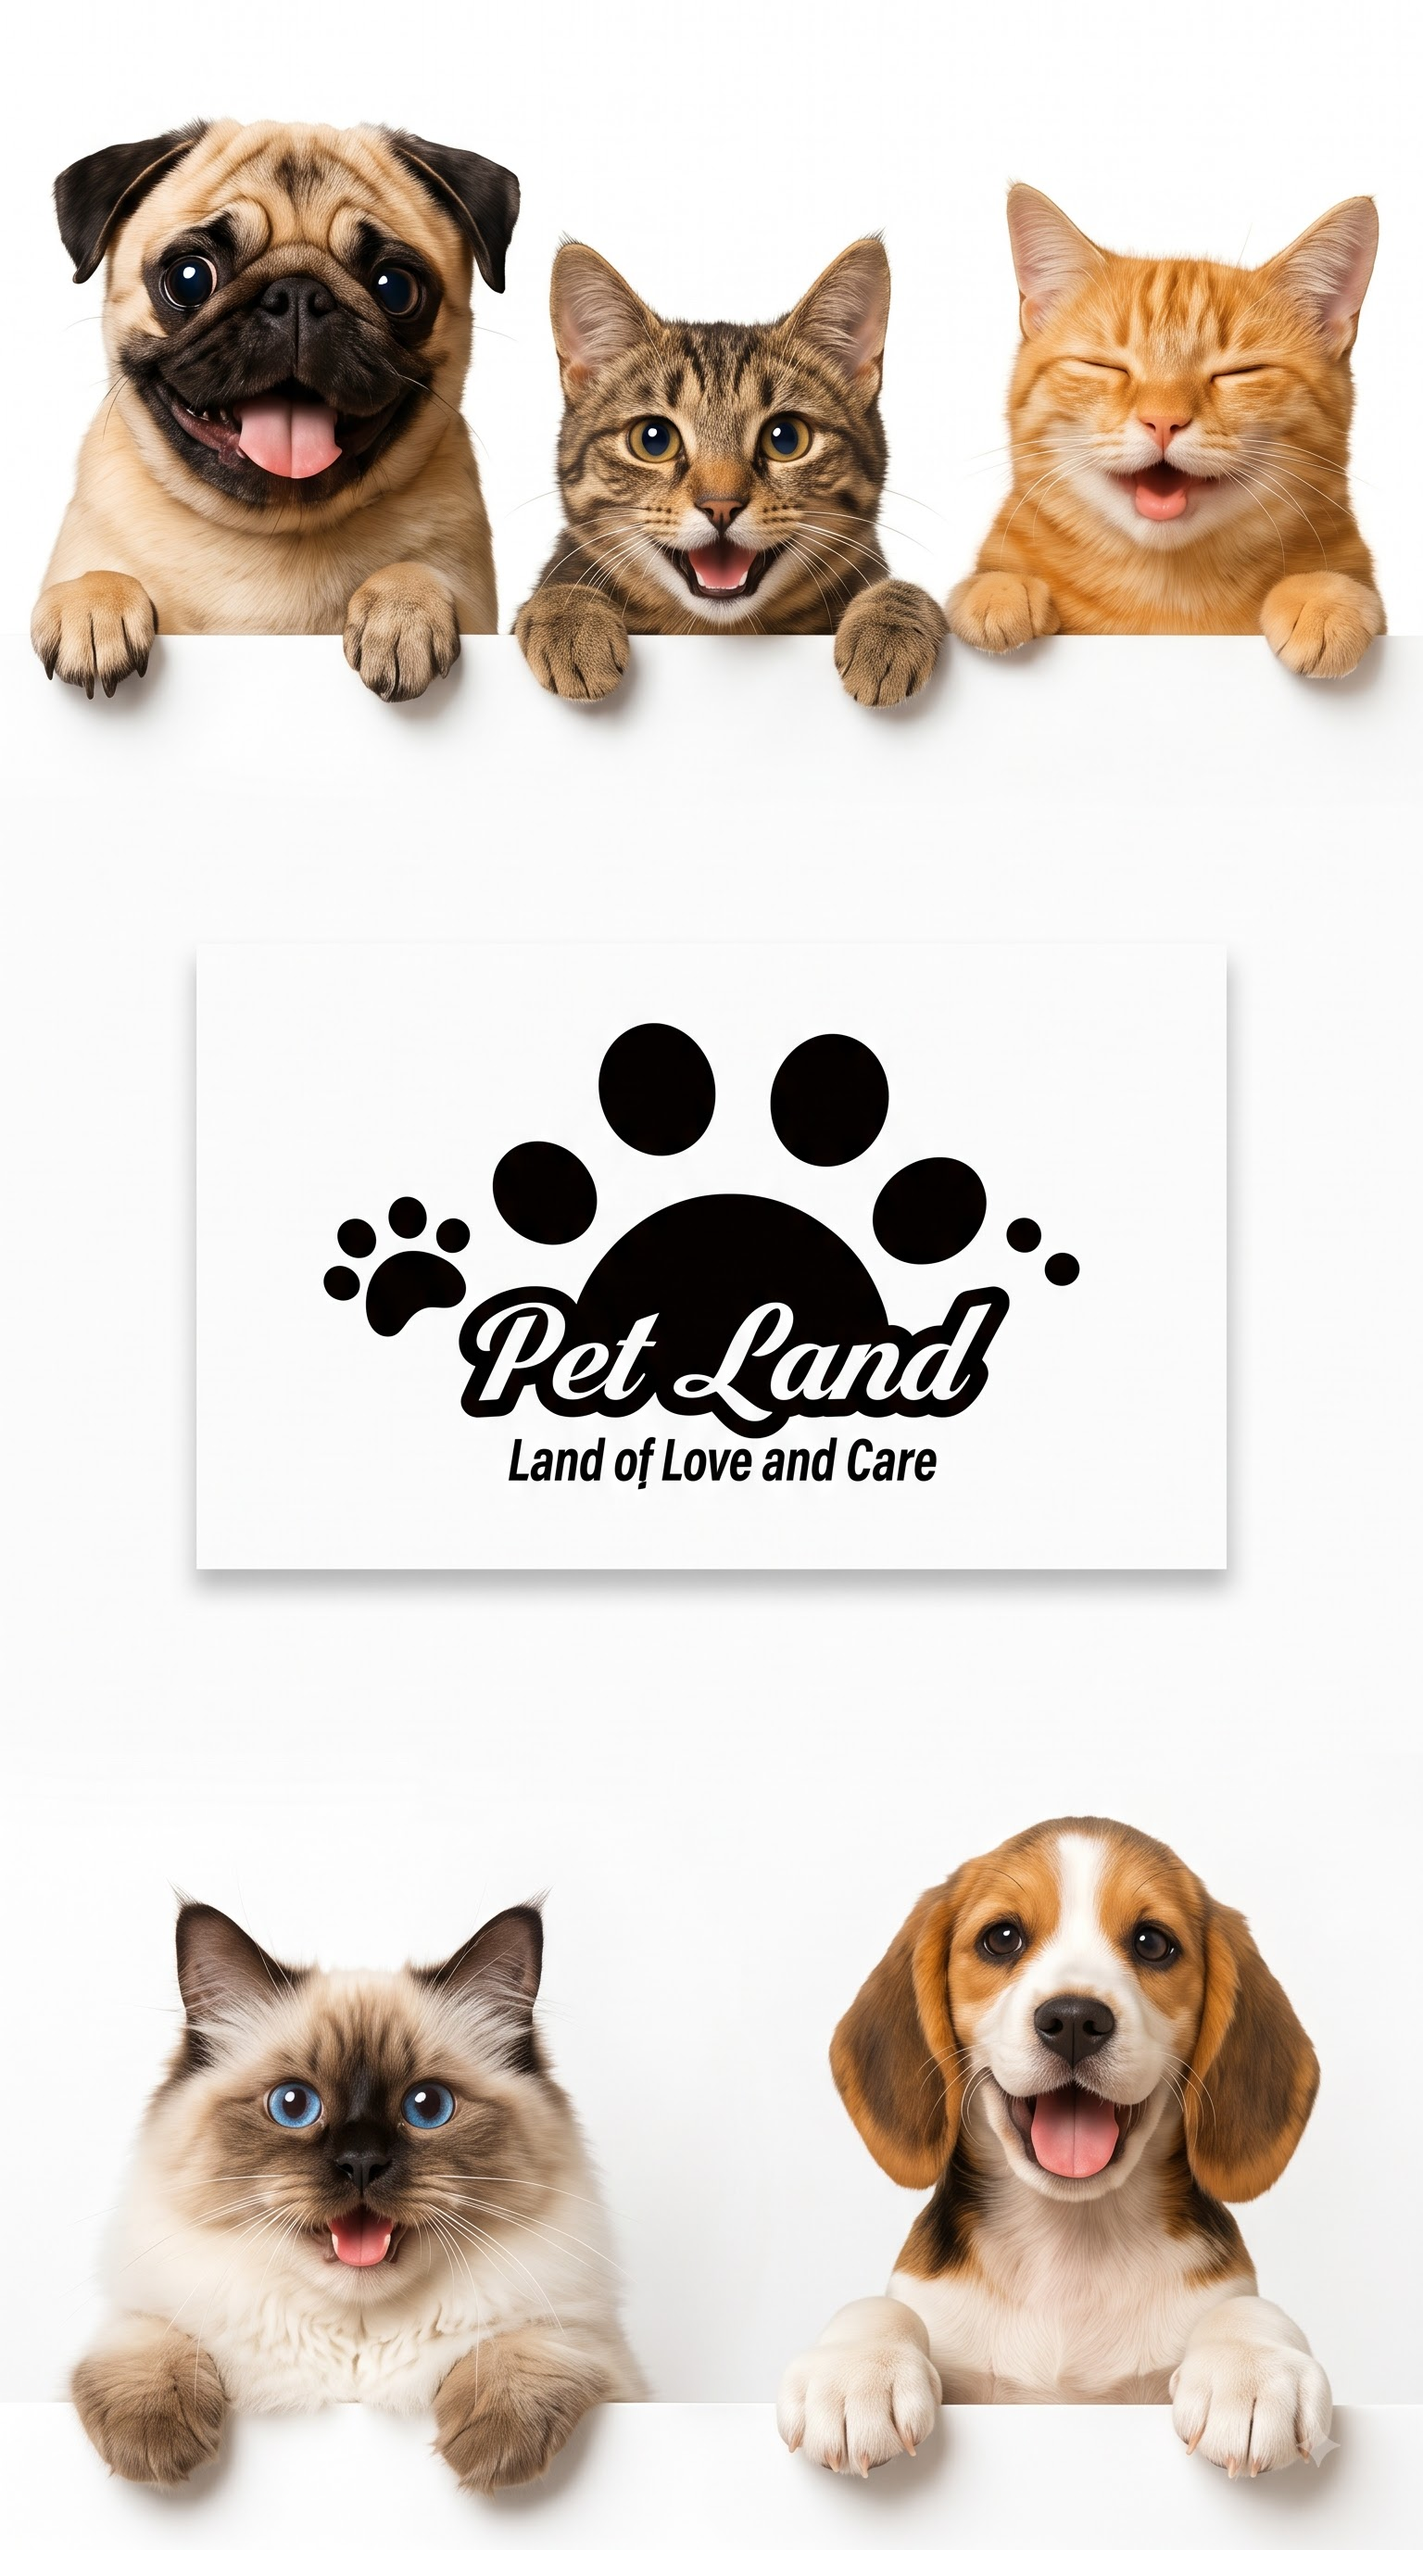
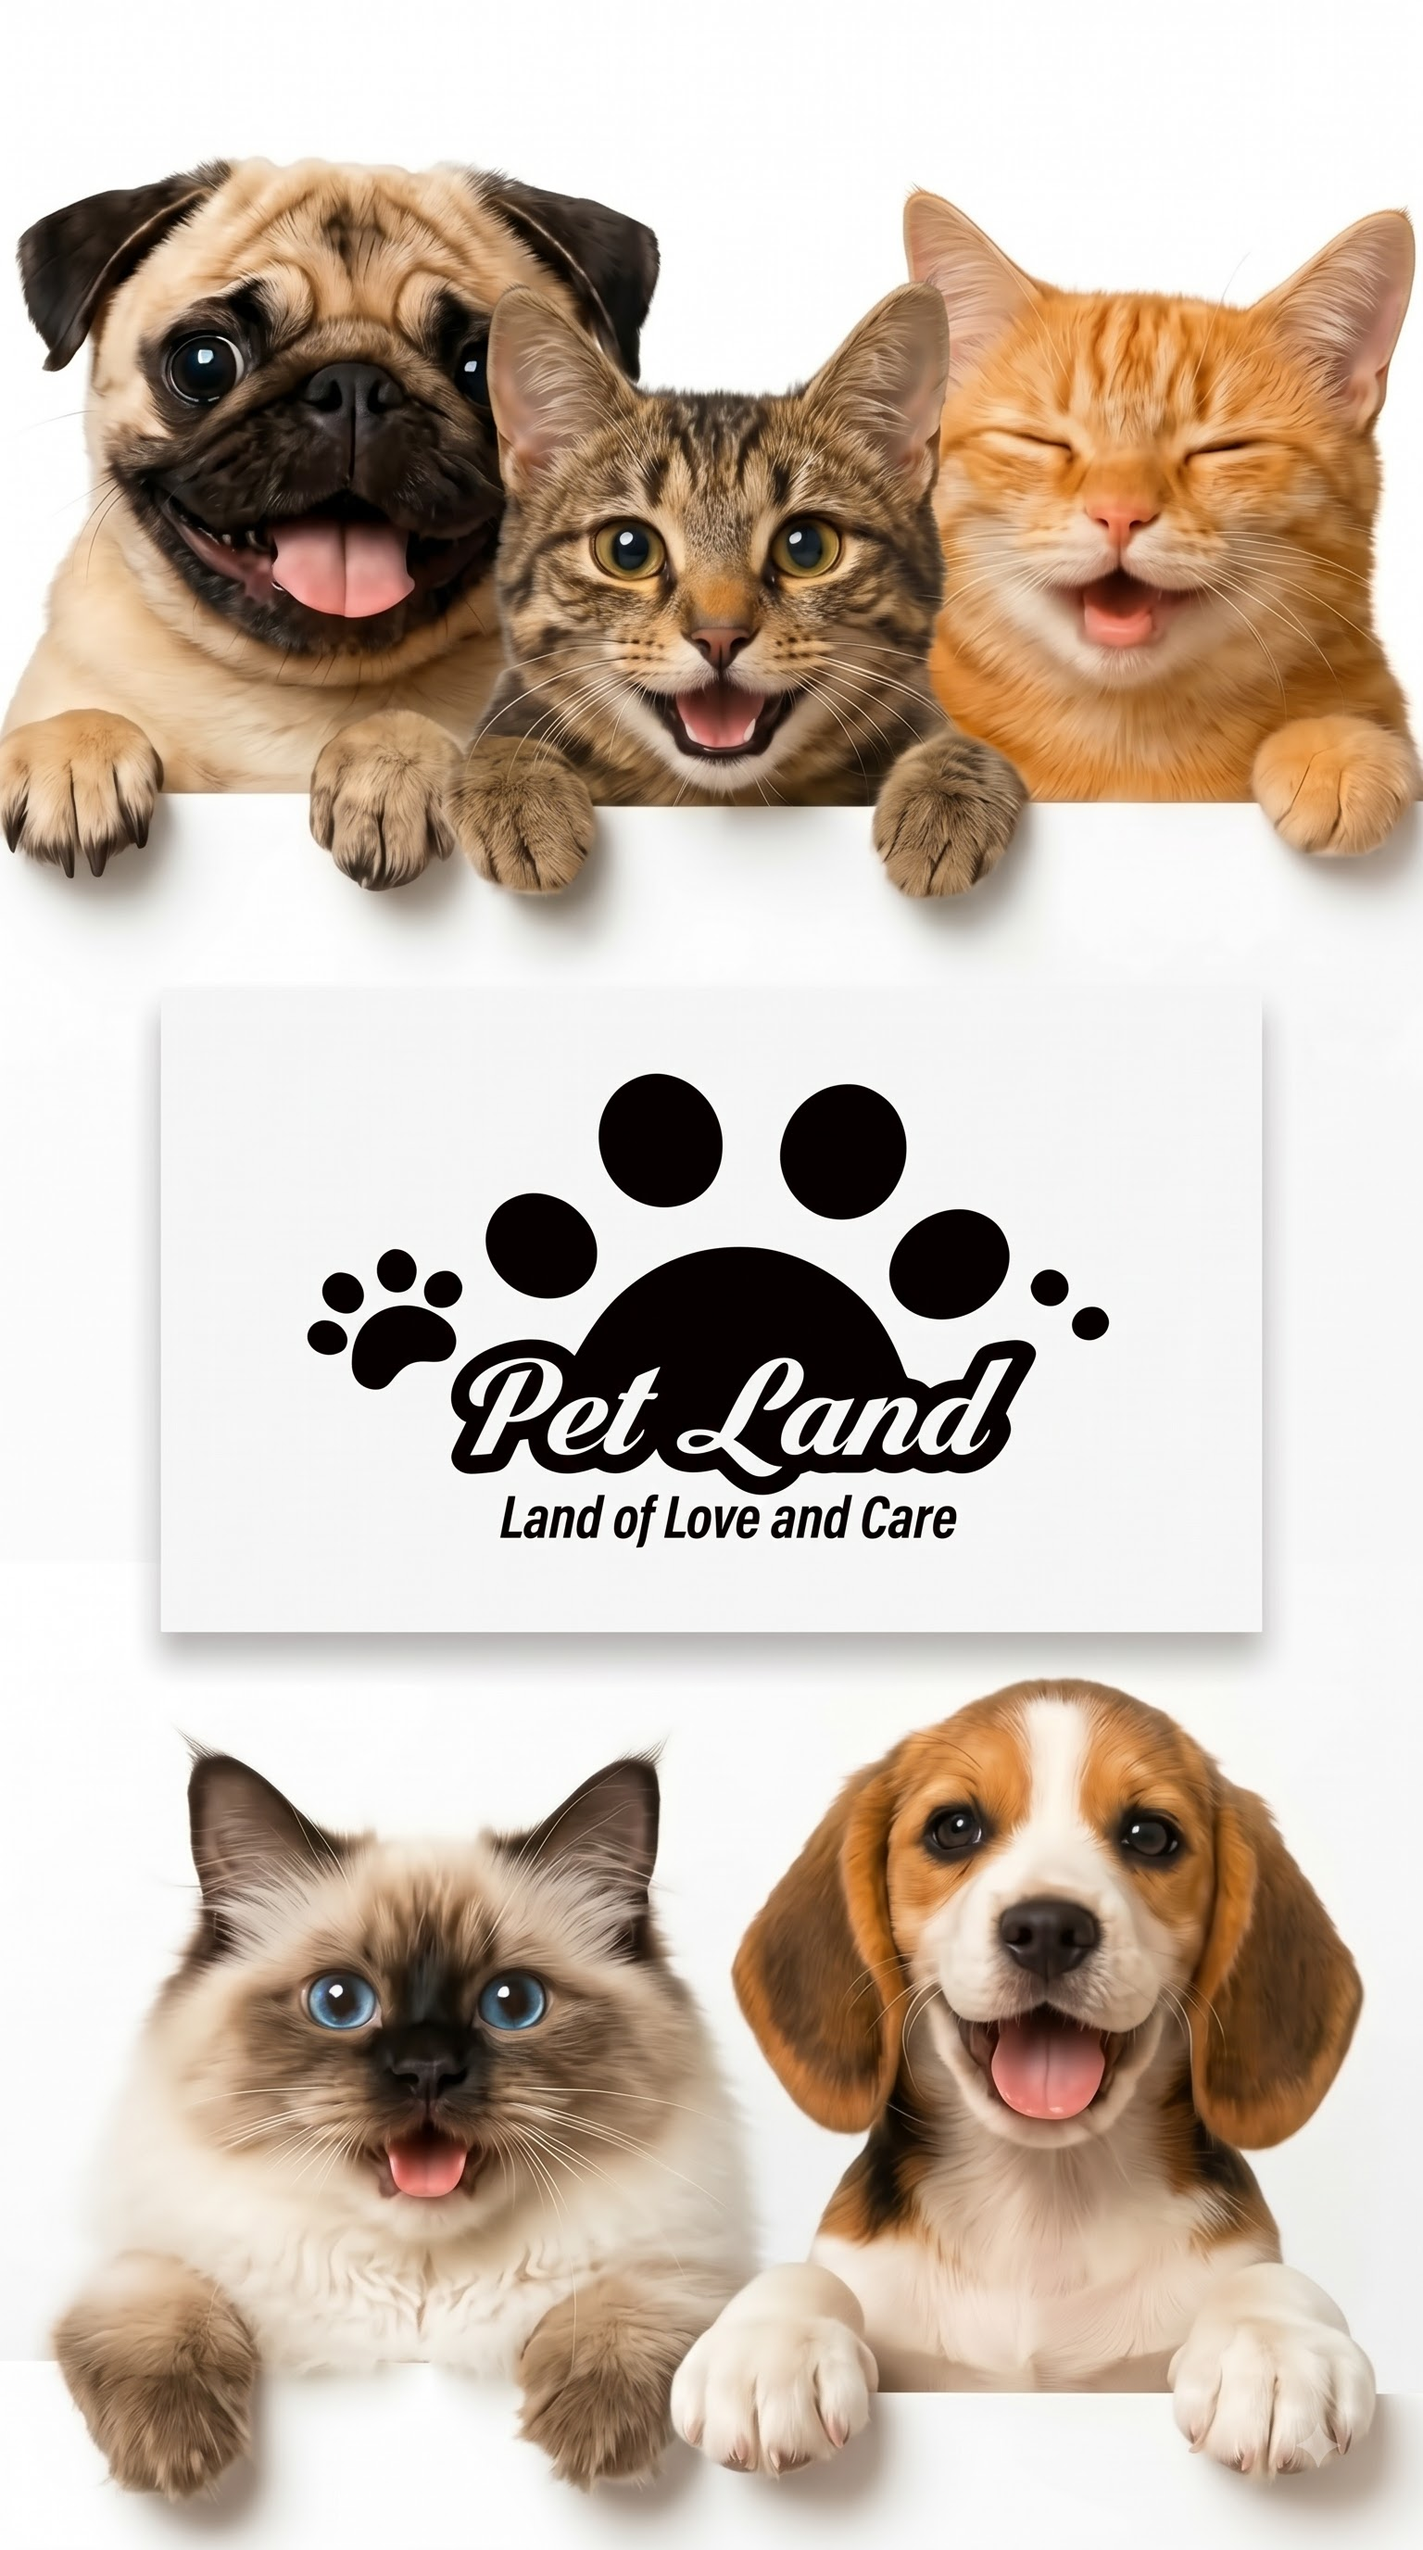
home page image

diff --git a/style.css b/style.css
@@ -1755,9 +1755,9 @@ footer {
     position: relative;
     width: 100%;
     height: calc(100vh - 82px);
-    padding-top: 85px;
     background-color: var(--white);
     margin: 0;
+    padding: 0;
     overflow: hidden;
 }
 
@@ -1788,7 +1788,6 @@ footer {
     width: 100%;
     height: 100%;
     object-fit: cover;
-    object-position: center top;
     display: block;
     background-color: var(--white);
 }
@@ -1796,7 +1795,6 @@ footer {
 @media (max-width: 768px) {
     .hero-section {
         height: 65vh;
-        padding-top: 65px;
     }
 }
 

diff --git a/scratch/interact_products_filter.py b/scratch/interact_products_filter.py
@@ -1,0 +1,31 @@
+from playwright.sync_api import sync_playwright
+
+with sync_playwright() as p:
+    browser = p.chromium.launch(headless=True)
+    page = browser.new_page()
+    page.goto('https://shop.petlandoman.com/products', timeout=60000)
+    page.wait_for_timeout(3000)
+    
+    # Take screenshot of /products to inspect filter UI
+    page.screenshot(path='c:/Users/SRUTHI/.gemini/antigravity-ide/brain/f4dee9e1-f3c6-422f-be04-76cad195ee13/shop_products_page.png')
+    
+    # Get HTML content of the filter section / sidebar
+    filters = page.evaluate('''() => {
+        const elements = document.querySelectorAll('button, div, a, span, label');
+        const items = [];
+        elements.forEach(e => {
+            const text = (e.textContent || '').strip ? e.textContent.strip() : (e.textContent || '').trim();
+            if (text && text.length > 2 && text.length < 50) {
+                if (['Food', 'Pet Food', 'Toys', 'Toys & Fun', 'Hygiene', 'Supplements', 'Accessories', 'Category', 'Categories', 'Dog', 'Cat'].some(k => text.toLowerCase().includes(k.toLowerCase()))) {
+                    items.push({text: text, tag: e.tagName, className: e.className, href: e.getAttribute('href')});
+                }
+            }
+        });
+        return items;
+    }''')
+    
+    print("MATCHED CATEGORY/FILTER ITEMS ON PRODUCTS PAGE:")
+    for item in filters[:30]:
+        print(item)
+        
+    browser.close()

diff --git a/scratch/inspect_nextjs_chunks.py b/scratch/inspect_nextjs_chunks.py
@@ -1,0 +1,32 @@
+import urllib.request
+import re
+
+# Fetch main-app or layout chunks from shop.petlandoman.com
+page_url = "https://shop.petlandoman.com/products"
+req = urllib.request.Request(page_url, headers={'User-Agent': 'Mozilla/5.0'})
+with urllib.request.urlopen(req) as resp:
+    html = resp.read().decode('utf-8', errors='ignore')
+
+js_files = re.findall(r'src="(/_next/static/chunks/[^"]+\.js)"', html)
+print(f"Found {len(js_files)} JS files")
+
+categories_found = set()
+for js in js_files:
+    js_url = "https://shop.petlandoman.com" + js
+    try:
+        jreq = urllib.request.Request(js_url, headers={'User-Agent': 'Mozilla/5.0'})
+        with urllib.request.urlopen(jreq) as jresp:
+            jstext = jresp.read().decode('utf-8', errors='ignore')
+            # Look for category names or slugs
+            cats = re.findall(r'category[^a-zA-Z0-9]*([a-zA-Z0-9_-]+)', jstext, re.IGNORECASE)
+            for c in cats:
+                if len(c) > 2 and len(c) < 30:
+                    categories_found.add(c)
+            # Look for slug or category patterns
+            matches = re.findall(r'["\'](/products\?[^"\']+)["\']', jstext)
+            for m in matches:
+                print("Found product route link:", m)
+    except Exception as e:
+        pass
+
+print("Sample categories keywords found:", list(categories_found)[:20])

diff --git a/scratch/get_shop_categories_playwright.py b/scratch/get_shop_categories_playwright.py
@@ -1,0 +1,39 @@
+from playwright.sync_api import sync_playwright
+import json
+
+with sync_playwright() as p:
+    browser = p.chromium.launch(headless=True)
+    page = browser.new_page()
+    page.goto('https://shop.petlandoman.com/', timeout=60000)
+    page.wait_for_timeout(3000)
+    
+    # Extract links from home page
+    links = page.evaluate('''() => {
+        return Array.from(document.querySelectorAll('a[href]')).map(e => ({
+            text: (e.textContent || '').trim(),
+            href: e.getAttribute('href')
+        }));
+    }''')
+    
+    print("HOME PAGE LINKS:")
+    for l in links:
+        if l['href'] and not l['href'].startswith('#') and l['href'] != '/':
+            print(f"  '{l['text']}' -> {l['href']}")
+            
+    # Now go to /products
+    page.goto('https://shop.petlandoman.com/products', timeout=60000)
+    page.wait_for_timeout(3000)
+    
+    p_links = page.evaluate('''() => {
+        return Array.from(document.querySelectorAll('a[href]')).map(e => ({
+            text: (e.textContent || '').trim(),
+            href: e.getAttribute('href')
+        }));
+    }''')
+    
+    print("\nPRODUCTS PAGE LINKS:")
+    for l in p_links:
+        if l['href'] and not l['href'].startswith('#') and l['href'] != '/':
+            print(f"  '{l['text']}' -> {l['href']}")
+            
+    browser.close()

diff --git a/scratch/get_categories_api.py b/scratch/get_categories_api.py
@@ -1,0 +1,31 @@
+from playwright.sync_api import sync_playwright
+
+with sync_playwright() as p:
+    browser = p.chromium.launch(headless=True)
+    page = browser.new_page()
+    
+    # Listen to network responses to capture backend API category endpoint
+    categories_api_resp = []
+    
+    def handle_response(response):
+        if 'cat' in response.url.lower() or 'product' in response.url.lower() or 'api' in response.url.lower():
+            try:
+                if 'json' in response.headers.get('content-type', ''):
+                    data = response.json()
+                    categories_api_resp.append({'url': response.url, 'data': data})
+            except:
+                pass
+                
+    page.on('response', handle_response)
+    
+    page.goto('https://shop.petlandoman.com/products', timeout=60000)
+    page.wait_for_timeout(5000)
+    
+    print(f"Captured {len(categories_api_resp)} API responses!")
+    for item in categories_api_resp:
+        print("API URL:", item['url'])
+        print("DATA KEYS:", list(item['data'].keys()) if isinstance(item['data'], dict) else type(item['data']))
+        print("SAMPLE DATA:", str(item['data'])[:300])
+        print("-" * 50)
+        
+    browser.close()

diff --git a/scratch/find_exact_category_urls.py b/scratch/find_exact_category_urls.py
@@ -1,0 +1,34 @@
+from playwright.sync_api import sync_playwright
+
+with sync_playwright() as p:
+    browser = p.chromium.launch(headless=True)
+    page = browser.new_page()
+    page.goto('https://shop.petlandoman.com/products', timeout=60000)
+    page.wait_for_timeout(3000)
+    
+    # Click Category accordion button if closed
+    try:
+        cat_btn = page.query_selector('button:has-text("Category")')
+        if cat_btn:
+            cat_btn.click()
+            page.wait_for_timeout(1000)
+    except Exception as e:
+        print("Category click err:", e)
+
+    # Get all checkbox labels or links under Category filter
+    categories = page.evaluate('''() => {
+        const labels = document.querySelectorAll('label, button, a');
+        const list = [];
+        labels.forEach(l => {
+            const txt = (l.textContent || '').trim();
+            if (txt) list.push(txt);
+        });
+        return list;
+    }''')
+    
+    print("Labels/Buttons on products page:")
+    for c in set(categories):
+        if any(k in c.lower() for k in ['food', 'toy', 'hygiene', 'supplement', 'accessories', 'dog', 'cat', 'bird']):
+            print(" -", c)
+            
+    browser.close()

diff --git a/scratch/test_search_urls.py b/scratch/test_search_urls.py
@@ -1,0 +1,25 @@
+from playwright.sync_api import sync_playwright
+
+test_urls = [
+    "https://shop.petlandoman.com/products?advance_search=Food",
+    "https://shop.petlandoman.com/products?advance_search=Toy",
+    "https://shop.petlandoman.com/products?advance_search=Hygiene",
+    "https://shop.petlandoman.com/products?advance_search=Accessories",
+]
+
+with sync_playwright() as p:
+    browser = p.chromium.launch(headless=True)
+    page = browser.new_page()
+    
+    for u in test_urls:
+        page.goto(u, timeout=60000)
+        page.wait_for_timeout(2000)
+        titles = page.evaluate('''() => {
+            const els = document.querySelectorAll('h3, h4, .product-title, .font-poppins');
+            return Array.from(els).map(e => e.innerText.strip ? e.innerText.strip() : e.innerText.trim()).filter(t => t.length > 3).slice(0, 5);
+        }''')
+        print(f"URL: {u}")
+        print("  Sample titles:", titles[:3])
+        print("-" * 50)
+        
+    browser.close()

diff --git a/scratch/test_category_params.py b/scratch/test_category_params.py
@@ -1,0 +1,26 @@
+from playwright.sync_api import sync_playwright
+
+with sync_playwright() as p:
+    browser = p.chromium.launch(headless=True)
+    page = browser.new_page()
+    page.goto('https://shop.petlandoman.com/products', timeout=60000)
+    page.wait_for_timeout(3000)
+    
+    # Check all checkbox inputs on products page
+    checkboxes = page.query_selector_all('input[type="checkbox"], button[role="checkbox"]')
+    print(f"Found {len(checkboxes)} checkboxes!")
+    
+    urls_after_click = []
+    for cb in checkboxes[:15]:
+        try:
+            label = cb.evaluate('e => e.closest("label") ? e.closest("label").innerText : e.innerText')
+            cb.click()
+            page.wait_for_timeout(1000)
+            urls_after_click.append({'label': label.strip(), 'url': page.url})
+        except Exception as e:
+            pass
+            
+    for u in urls_after_click:
+        print(f"Label: '{u['label']}' -> {u['url']}")
+        
+    browser.close()

diff --git a/scratch/verify_hero_static_images.py b/scratch/verify_hero_static_images.py
@@ -1,0 +1,20 @@
+from playwright.sync_api import sync_playwright
+
+with sync_playwright() as p:
+    browser = p.chromium.launch()
+    
+    # Desktop viewport screenshot
+    page_desk = browser.new_page(viewport={'width': 1280, 'height': 800})
+    page_desk.goto('http://localhost:8080/')
+    page_desk.wait_for_timeout(1000)
+    page_desk.screenshot(path='c:/Users/SRUTHI/.gemini/antigravity-ide/brain/f4dee9e1-f3c6-422f-be04-76cad195ee13/hero_desktop_static.png')
+    print('Saved hero_desktop_static.png')
+    
+    # Mobile viewport screenshot
+    page_mob = browser.new_page(viewport={'width': 375, 'height': 750})
+    page_mob.goto('http://localhost:8080/')
+    page_mob.wait_for_timeout(1000)
+    page_mob.screenshot(path='c:/Users/SRUTHI/.gemini/antigravity-ide/brain/f4dee9e1-f3c6-422f-be04-76cad195ee13/hero_mobile_static.png')
+    print('Saved hero_mobile_static.png')
+    
+    browser.close()

diff --git a/scratch/check_shop_categories.py b/scratch/check_shop_categories.py
@@ -1,0 +1,21 @@
+import urllib.request
+import json
+
+urls_to_test = [
+    "https://shop.petlandoman.com/products",
+    "https://shop.petlandoman.com/products?category=food",
+    "https://shop.petlandoman.com/products?category=toys",
+    "https://shop.petlandoman.com/products?category=hygiene",
+    "https://shop.petlandoman.com/products?category=accessories",
+    "https://shop.petlandoman.com/products?category=pet-food",
+    "https://shop.petlandoman.com/products?category=toys-and-fun",
+    "https://shop.petlandoman.com/products?category=hygiene-and-supplements",
+]
+
+for url in urls_to_test:
+    req = urllib.request.Request(url, headers={'User-Agent': 'Mozilla/5.0'})
+    try:
+        with urllib.request.urlopen(req) as resp:
+            print(f"Status {resp.status} for {url}")
+    except Exception as e:
+        print(f"Error for {url}: {e}")

diff --git a/scratch/verify_shopify_urls.py b/scratch/verify_shopify_urls.py
@@ -1,0 +1,17 @@
+import urllib.request
+
+urls = [
+    "https://shop.petlandoman.com/products?category=food",
+    "https://shop.petlandoman.com/products?category=toys",
+    "https://shop.petlandoman.com/products?category=hygiene",
+    "https://shop.petlandoman.com/products?category=accessories",
+    "https://shop.petlandoman.com/products",
+]
+
+for url in urls:
+    req = urllib.request.Request(url, headers={'User-Agent': 'Mozilla/5.0'})
+    try:
+        with urllib.request.urlopen(req) as resp:
+            print(f"[{resp.status}] OK: {url}")
+    except Exception as e:
+        print(f"FAILED: {url} -> {e}")

diff --git a/scratch/extract_shop_links.py b/scratch/extract_shop_links.py
@@ -1,0 +1,11 @@
+import re
+
+content_file = r'C:\Users\SRUTHI\.gemini\antigravity-ide\brain\f4dee9e1-f3c6-422f-be04-76cad195ee13\.system_generated\steps\409\content.md'
+with open(content_file, 'r', encoding='utf-8', errors='ignore') as f:
+    text = f.read()
+
+hrefs = set(re.findall(r'href=["\']([^"\']+)["\']', text))
+print("Found links on shop.petlandoman.com:")
+for h in sorted(hrefs):
+    if not h.startswith('/_next') and not h.startswith('http') and h != '/':
+        print(' - https://shop.petlandoman.com' + h)
